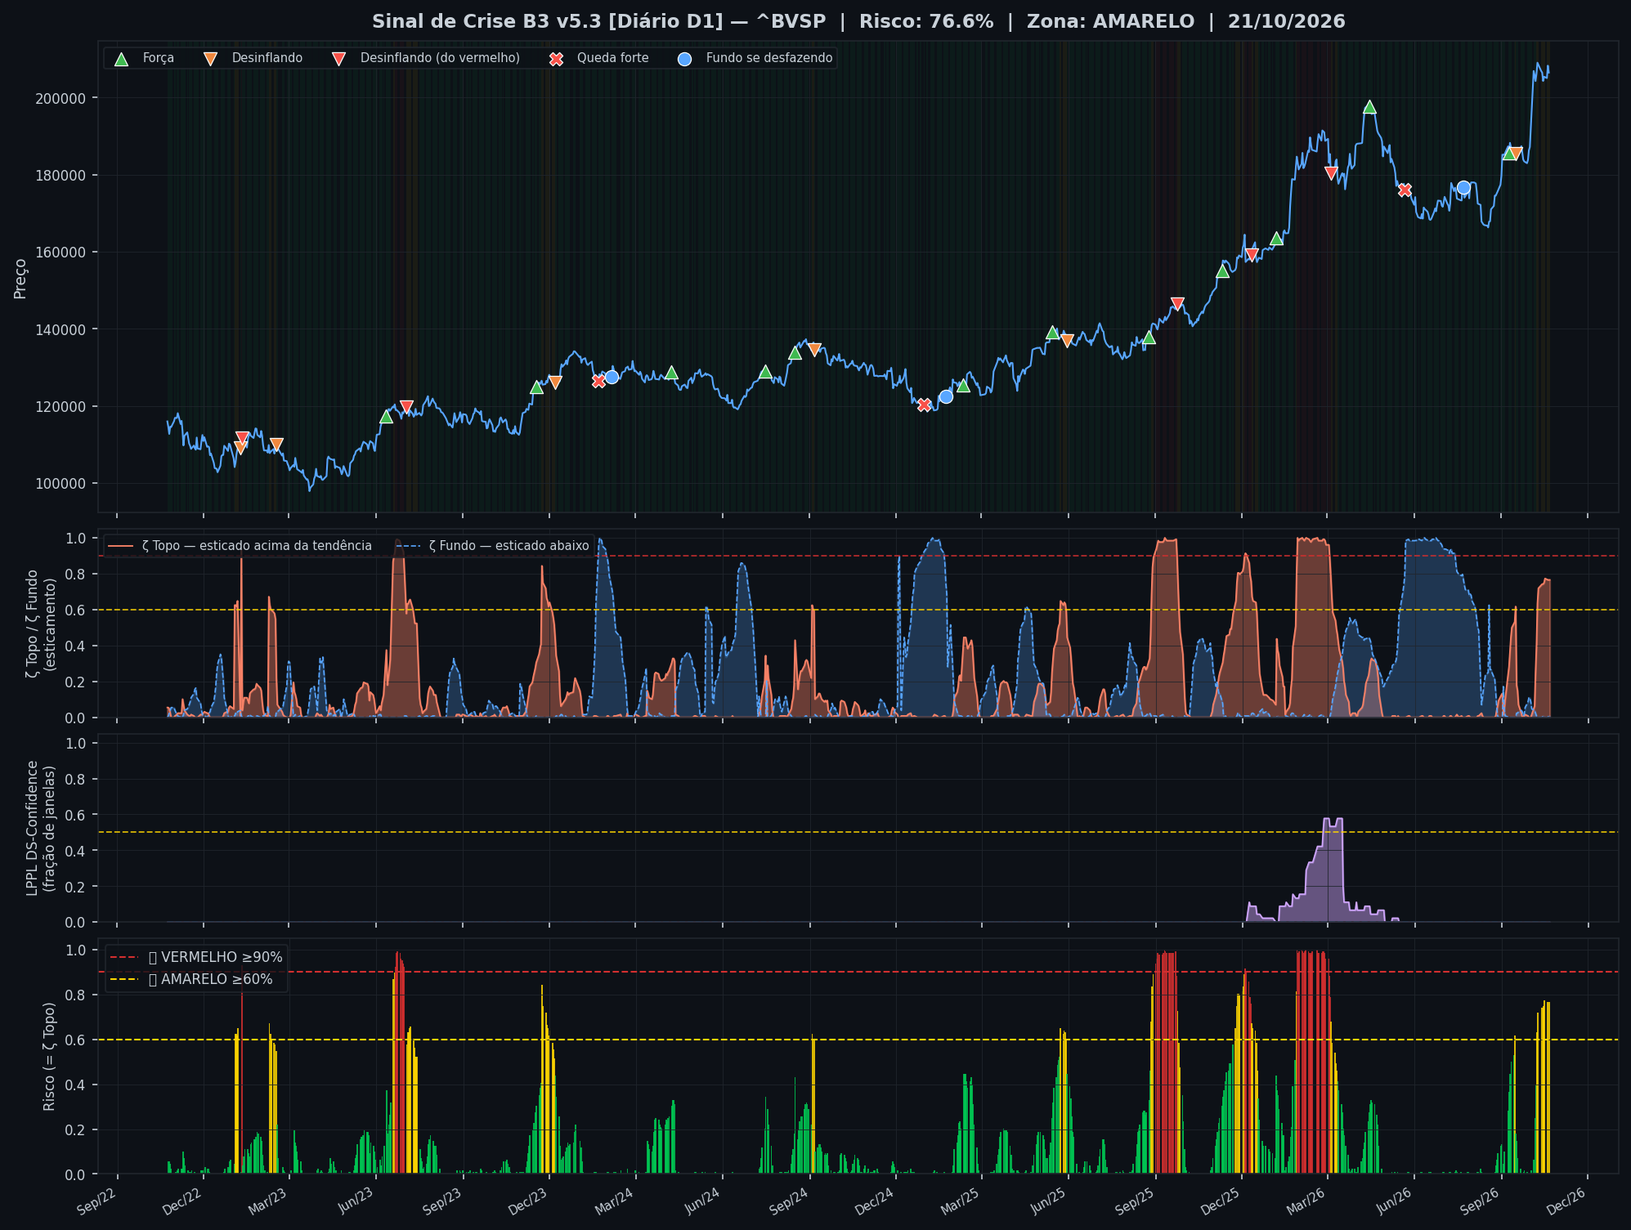
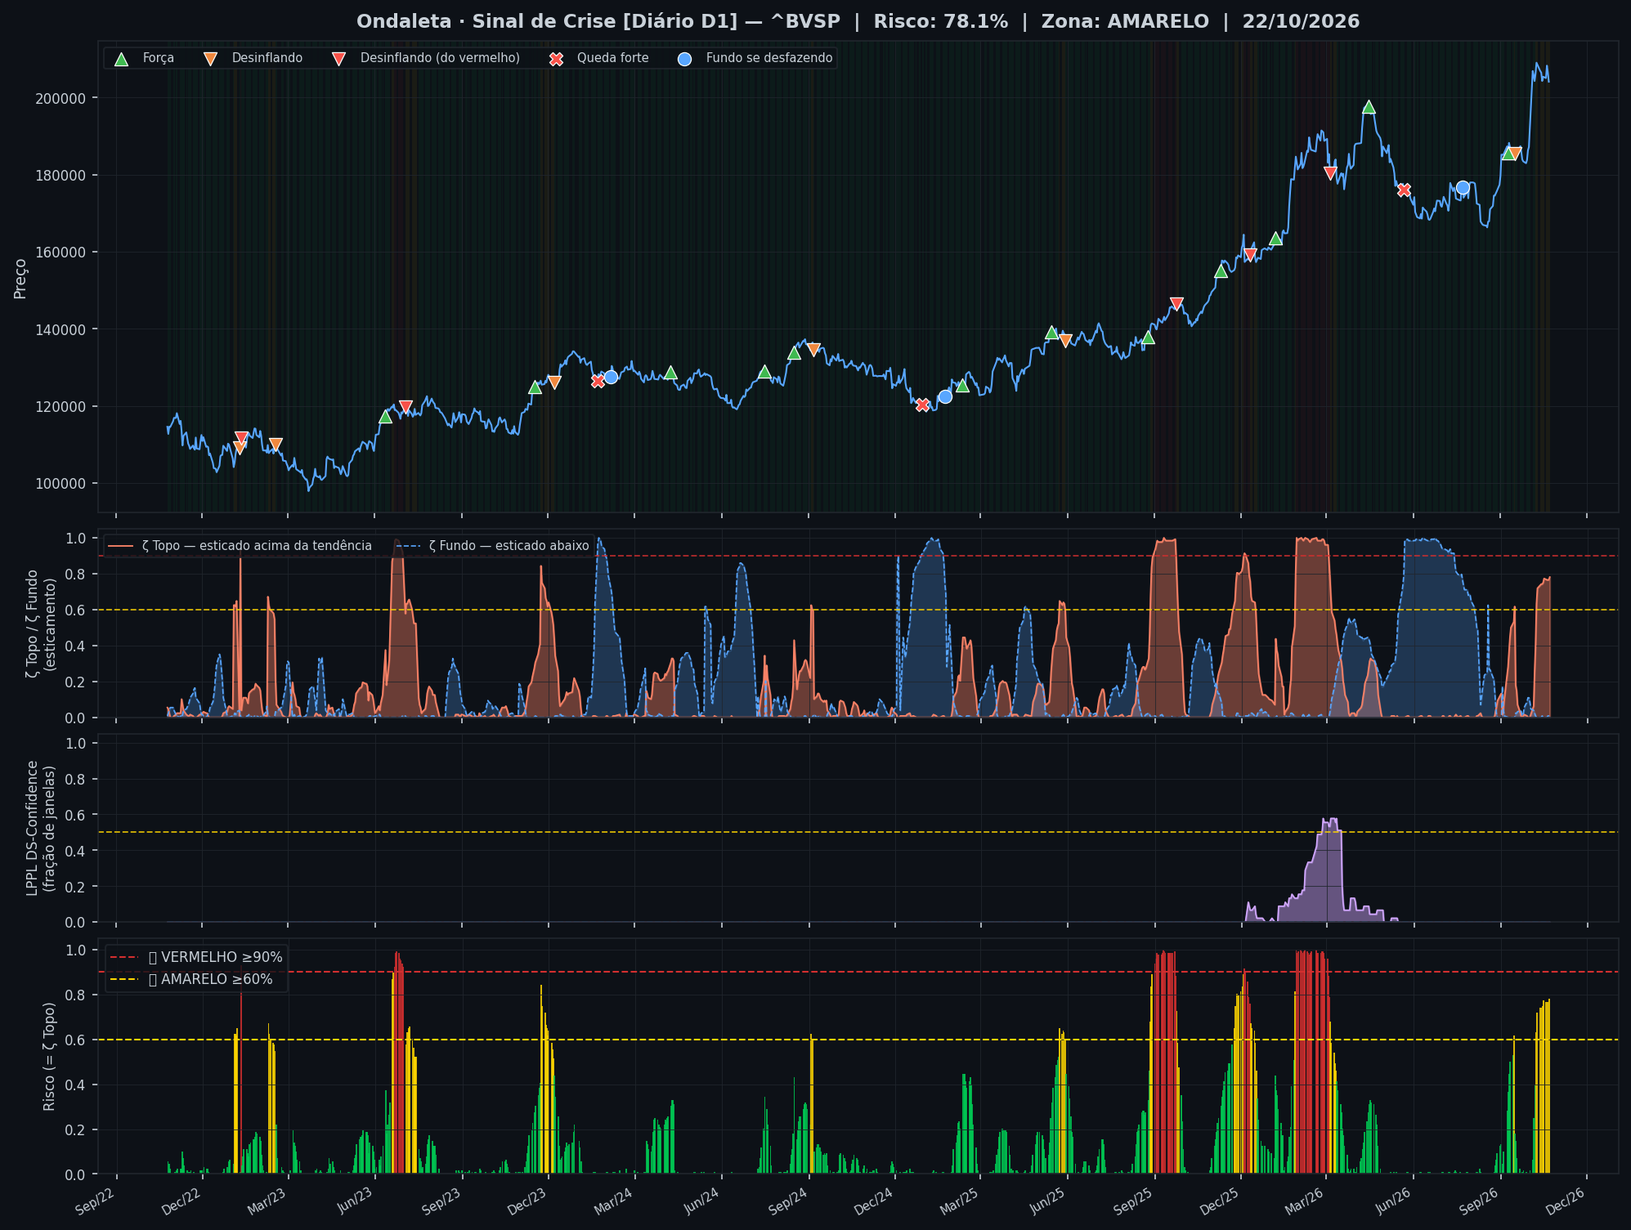
🤖 Auto: Sinal 22/10/2026 19:12

diff --git a/content/diario/2026-10-22.md b/content/diario/2026-10-22.md
@@ -1,0 +1,138 @@
+---
+title: "🟡 Diário 22/10/2026 — AMARELO"
+date: 2026-10-22
+tags: [diario]
+---
+
+> [!warning] Onde o mercado está no fechamento de 22/10: **🟡 Esticado para cima**
+> `Pânico ◀──────────────────●──▶ Euforia`
+>
+> O Ibovespa subiu mais rápido que o normal e está acima da sua faixa habitual.
+>
+> *Leitura educacional baseada em 26 anos de dados. Não é recomendação de investimento.*
+
+> [!note]- 🎯 Gatilhos de entrada: nenhum armado agora
+> Nenhum sinal recente está esperando rompimento.
+>
+> *Como funciona: depois de um sinal de fundo (ou ζ Fundo ≥ 60%), o gatilho de compra é o rompimento da **máxima do candle anterior + 20% do tamanho dele**; depois de um sinal de topo (ou ζ Topo ≥ 60%), o de venda é o rompimento da **mínima − 20%**. Fica armado por até 5 candles, no mesmo tempo gráfico do sinal. [Estudo e regras](metodologia#gatilho-de-entrada) · leitura educacional do método, não recomendação.*
+
+> [!warning] 🔥 Sinais de Topo e Fundo · Mensal, Semanal — sinal forte em formação (confirma no fechamento do candle mensal, semanal)
+> - 🔴 Mensal · TOPO · **[RSI75+MV](tecnico/#mensal)** — RSI≥75 e MACD-V≥130 · 📈 [ver no gráfico Mensal](tecnico/#mensal)
+> - 🔴 Semanal · TOPO · **[FD+CCI](tecnico/#semanal)** — Fechou fora→dentro da BB superior + CCI≥200 · 📈 [ver no gráfico Semanal](tecnico/#semanal)
+>
+> [Ver os sinais](sinais-topo-fundo/)
+
+> [!warning] Sinal de Crise · Diário (22/10): 🟡 **AMARELO** — Risco 78% · ▲ +2 p.p. vs leitura anterior
+> `████████████████░░░░`
+> Atenção — preço esticado acima da tendência.
+
+
+> [!warning] ⚠ Nível alto agora — Sinal de Crise · Diário (22/10)
+> - 🟡 **ζ Topo 78%** — preço esticado acima da tendência (risco de reversão)
+
+> [!note] 🧭 Sinal de Crise · Situação no diário: 🟡 **Preço esticado acima da tendência**
+> 📚 historicamente, a partir daqui o risco de correção ficou acima da média
+>
+> Eventos recentes: 📉 16/09 Esticamento desinflando · 🚀 09/09 Força · 🌱 23/07 Fundo se desfazendo · 🔪 22/05 Queda forte em curso
+>
+> *Leitura educacional baseada em 26 anos de dados, não recomendação. [Como usar](../metodologia#3-como-usar-na-prática).*
+
+| Indicador — Sinal de Crise · Diário (22/10) | Valor |
+|---|---|
+| 🔴 ζ Topo — preço esticado acima da tendência | 🟡 **78%** |
+| 🔵 ζ Fundo — preço esticado abaixo da tendência | 0% |
+| 🫧 LPPL bolha — alta super-exponencial (risco de crash) | 0% |
+| 🫧 LPPL antibolha — queda super-exponencial (risco de repique) | 0% |
+| 📊 Ibovespa | 204.120 pts |
+
+![Gráfico do sinal](../graficos/sinal_diario.png)
+
+## Últimos 30 pregões
+
+| Data | Zona | Evento | Risco | ζ Topo | ζ Fundo | LPPL |
+|---|---|---|---|---|---|---|
+| 2026-10-22 | 🟡 AMARELO |  | 🟡 **78%** | 🟡 **78%** | 0% | 0% |
+| 2026-10-21 | 🟡 AMARELO |  | 🟡 **77%** | 🟡 **77%** | 1% | 0% |
+| 2026-10-20 | 🟡 AMARELO |  | 🟡 **77%** | 🟡 **77%** | 1% | 0% |
+| 2026-10-19 | 🟡 AMARELO |  | 🟡 **77%** | 🟡 **77%** | 0% | 0% |
+| 2026-10-16 | 🟡 AMARELO |  | 🟡 **77%** | 🟡 **77%** | 0% | 0% |
+| 2026-10-15 | 🟡 AMARELO |  | 🟡 **75%** | 🟡 **75%** | 0% | 0% |
+| 2026-10-14 | 🟡 AMARELO |  | 🟡 **74%** | 🟡 **74%** | 1% | 0% |
+| 2026-10-13 | 🟡 AMARELO |  | 🟡 **74%** | 🟡 **74%** | 0% | 0% |
+| 2026-10-09 | 🟡 AMARELO |  | 🟡 **72%** | 🟡 **72%** | 0% | 0% |
+| 2026-10-08 | 🟡 AMARELO |  | 🟡 **63%** | 🟡 **63%** | 0% | 0% |
+| 2026-10-07 | 🟢 VERDE |  | **40%** | 40% | 1% | 0% |
+| 2026-10-06 | 🟢 VERDE |  | **25%** | 25% | 2% | 0% |
+| 2026-10-05 | 🟢 VERDE |  | **6%** | 6% | 4% | 0% |
+| 2026-10-02 | 🟢 VERDE |  | **2%** | 2% | 5% | 0% |
+| 2026-10-01 | 🟢 VERDE |  | **0%** | 0% | 9% | 0% |
+| 2026-09-30 | 🟢 VERDE |  | **0%** | 0% | 11% | 0% |
+| 2026-09-29 | 🟢 VERDE |  | **0%** | 0% | 11% | 0% |
+| 2026-09-28 | 🟢 VERDE |  | **1%** | 1% | 9% | 0% |
+| 2026-09-25 | 🟢 VERDE |  | **2%** | 2% | 5% | 0% |
+| 2026-09-24 | 🟢 VERDE |  | **1%** | 1% | 2% | 0% |
+| 2026-09-23 | 🟢 VERDE |  | **0%** | 0% | 1% | 0% |
+| 2026-09-22 | 🟢 VERDE |  | **0%** | 0% | 3% | 0% |
+| 2026-09-21 | 🟢 VERDE |  | **2%** | 2% | 4% | 0% |
+| 2026-09-18 | 🟢 VERDE |  | **7%** | 7% | 3% | 0% |
+| 2026-09-17 | 🟢 VERDE |  | **15%** | 15% | 2% | 0% |
+| 2026-09-16 | 🟢 VERDE | 📉 | **18%** | 18% | 2% | 0% |
+| 2026-09-15 | 🟡 AMARELO |  | 🟡 **62%** | 🟡 **62%** | 0% | 0% |
+| 2026-09-14 | 🟢 VERDE |  | **53%** | 53% | 0% | 0% |
+| 2026-09-11 | 🟢 VERDE |  | **50%** | 50% | 0% | 0% |
+| 2026-09-10 | 🟢 VERDE |  | **45%** | 45% | 0% | 0% |
+
+<small>Destaques: 🟡 ≥ 60% · 🔴 ≥ 90% (Risco e ζ Topo) · 🔵 ≥ 60% · 🔪 ≥ 90% (ζ Fundo) · 🫧 ≥ 30% · 🫧🔴 ≥ 50% (LPPL)</small>
+
+## Monitor Multi-Ativo
+
+**29% dos ativos em tensão** (6🔴 1🟡) · **2 com ζ Fundo alto** — quanto mais ativos disparam juntos, mais confiável o sinal.
+
+> [!danger] Em destaque no multi-ativo
+> 🔪 **WEG** ζ Fundo 99% · 🔪 **VIBRA** ζ Fundo 99% · 🔴 **B3** ζ Topo 98% · 🔴 **BTGP BANCO** ζ Topo 98% · 🔴 **EQUATORIAL** ζ Topo 98% · 🔴 **LOCALIZA** ζ Topo 98% · 🔴 **REDE D OR** ζ Topo 97% · 🟡 **SABESP** ζ Topo 88% · 🟡 **BRADESCO** ζ Topo 87%
+
+| Zona | Ativo | Setor | ζ Topo | ζ Fundo |
+|---|---|---|---|---|
+| 🟢 | **WEG** | Industrial | 0.8% | 🔪 **99.2%** |
+| 🟢 | **VIBRA** | Energia | 0.0% | 🔪 **99.2%** |
+| 🔴 | **B3** | Financeiro | 🔴 **98.4%** | 0.8% |
+| 🔴 | **BTGP BANCO** | Financeiro | 🔴 **98.4%** | 0.8% |
+| 🔴 | **EQUATORIAL** | Energia | 🔴 **98.4%** | 0.0% |
+| 🔴 | **LOCALIZA** | Aluguel | 🔴 **98.4%** | 0.8% |
+| 🔴 | **REDE D OR** | Saúde | 🔴 **96.9%** | 0.8% |
+| 🟡 | **SABESP** | Saneamento | 🟡 **87.5%** | 0.0% |
+| 🔴 | **BRADESCO** | Financeiro | 🟡 **86.7%** | 0.8% |
+| 🟢 | **AMBEV S/A** | Consumo | 52.3% | 0.0% |
+| 🟢 | **ENEVA** | Energia | 38.3% | 0.8% |
+| 🟢 | **VALE** | Mineração | 0.8% | 35.9% |
+| 🟢 | **ITAUUNIBANCO** | Financeiro | 35.2% | 1.6% |
+| 🟢 | **PETROBRAS** | Petróleo | 33.6% | 0.0% |
+| 🟢 | **PETROBRAS** | Petróleo | 30.5% | 0.0% |
+| 🟢 | **PRIO** | Petróleo | 21.9% | 0.0% |
+| 🟢 | **GERDAU** | Siderurgia | 11.7% | 0.8% |
+| 🟢 | **ITAUSA** | Financeiro | 1.6% | 6.2% |
+| 🟢 | **BRASIL** | Financeiro | 6.2% | 0.8% |
+| 🟢 | **EMBRAER** | Outros | 0.0% | 3.9% |
+| 🟢 | **COPEL** | Energia | 3.9% | 0.0% |
+| 🟢 | **ULTRAPAR** | Outros | 3.1% | 0.0% |
+| 🟢 | **USD/BRL** | Câmbio | 1.6% | 0.0% |
+| 🟢 | **AXIA ENERGIA** | Energia | 0.8% | 0.0% |
+
+<small>Destaques: 🟡 ≥ 60% · 🔴 ≥ 90% (Risco e ζ Topo) · 🔵 ≥ 60% · 🔪 ≥ 90% (ζ Fundo) · 🫧 ≥ 30% · 🫧🔴 ≥ 50% (LPPL)</small>
+
+![Monitor multi-ativo](../graficos/multi_diario.png)
+
+*Página atualizada em 22/10/2026 19:12 BRT (leitura da barra de 2026-10-22 BRT).*
+
+> [!info]- Como interpretar (clique para expandir)
+> - **ζ Topo**: fração dos coeficientes wavelet (Chapéu Mexicano, Caetano & Yoneyama 2009) acima de +0,8σ na faixa mais recente. Na ponta da série isso acontece quando o preço termina **esticado acima da tendência** em muitas escalas — euforia/topo. ζ=0,90 é o limiar de Caetano: quedas que partiram desse padrão foram mais fundas. **É risco de reversão, não data do crash.**
+> - **ζ Fundo**: o espelho — preço esticado abaixo da tendência, possível região de compra.
+> - **LPPL DS-Confidence**: fração de 45 janelas (60–500 pregões) em que o modelo de Sornette produz um ajuste válido. **Bolha** (B<0): alta super-exponencial, risco de crash. **Antibolha** (B>0): queda super-exponencial, risco de repique. Evidência complementar; **não entra na zona**.
+> - **Zonas com histerese**: o sinal só muda de zona ao cruzar o limiar de entrada, e só volta ao cruzar o de saída — evita flip-flop diário.
+
+
+---
+*Ondaleta · as ondas do mercado, explicadas. Sinal de Crise baseado no trabalho do Prof. Marco Antonio Leonel Caetano (IMA Wavelet, [Caetano & Yoneyama, Physica-A 2007](https://doi.org/10.1016/j.physa.2007.03.054)) e do Prof. Didier Sornette (LPPL, ETH-Zurich); Sinais de Topo e Fundo baseados no trabalho de Oliver Velez, J. Welles Wilder, Donald Lambert, John Bollinger e Alex Spiroglou. Adaptado, testado no Ibovespa e mantido por Jarbas Daniel da Costa. Os autores citados não participam do produto. · [Metodologia](metodologia) · [Histórico](historico)*
+
+> [!quote]- Aviso
+> Conteúdo educacional. Não constitui recomendação de investimento.

diff --git a/content/index.md b/content/index.md
@@ -6,13 +6,12 @@ tags: [home]
 
 **As ondas do mercado, explicadas.** Leitura do Ibovespa com estatística de 26 anos, baseada no trabalho de pesquisadores e traders reconhecidos e adaptada por Jarbas Daniel da Costa.
 
-*Última atualização: 22/10/2026 18:38 BRT · Intraday 15min*
+*Última atualização: 22/10/2026 19:12 BRT · Diário D1*
 
-> [!success] Onde o mercado está agora (22/10 17:15, candles de 15 min): **🟢 Calmo**
-> `Pânico ◀──────●──────────────▶ Euforia`
+> [!warning] Onde o mercado está no fechamento de 22/10: **🟡 Esticado para cima**
+> `Pânico ◀──────────────────●──▶ Euforia`
 >
-> O Ibovespa está dentro da sua faixa normal, sem excesso para cima nem para baixo.
-> No gráfico diário: 🟡 Preço esticado acima da tendência.
+> O Ibovespa subiu mais rápido que o normal e está acima da sua faixa habitual.
 >
 > *Leitura educacional baseada em 26 anos de dados. Não é recomendação de investimento.*
 
@@ -21,15 +20,19 @@ tags: [home]
 >
 > *Como funciona: depois de um sinal de fundo (ou ζ Fundo ≥ 60%), o gatilho de compra é o rompimento da **máxima do candle anterior + 20% do tamanho dele**; depois de um sinal de topo (ou ζ Topo ≥ 60%), o de venda é o rompimento da **mínima − 20%**. Fica armado por até 5 candles, no mesmo tempo gráfico do sinal. [Estudo e regras](metodologia#gatilho-de-entrada) · leitura educacional do método, não recomendação.*
 
-> [!warning] 🔥 Sinais de Topo e Fundo · Mensal — sinal forte em formação (confirma no fechamento do candle mensal)
+> [!warning] 🔥 Sinais de Topo e Fundo · Mensal, Semanal — sinal forte em formação (confirma no fechamento do candle mensal, semanal)
 > - 🔴 Mensal · TOPO · **[RSI75+MV](tecnico/#mensal)** — RSI≥75 e MACD-V≥130 · 📈 [ver no gráfico Mensal](tecnico/#mensal)
+> - 🔴 Semanal · TOPO · **[FD+CCI](tecnico/#semanal)** — Fechou fora→dentro da BB superior + CCI≥200 · 📈 [ver no gráfico Semanal](tecnico/#semanal)
 >
 > [Ver os sinais](sinais-topo-fundo/)
 
+> [!warning] ⚠ Nível alto agora — Sinal de Crise · Diário (22/10)
+> - 🟡 **ζ Topo 78%** — preço esticado acima da tendência (risco de reversão)
 
-
-> [!note] 🧭 Sinal de Crise · Viés do diário (21/10): 🟡 **Preço esticado acima da tendência**
+> [!note] 🧭 Sinal de Crise · Situação no diário: 🟡 **Preço esticado acima da tendência**
 > 📚 historicamente, a partir daqui o risco de correção ficou acima da média
+>
+> Eventos recentes: 📉 16/09 Esticamento desinflando · 🚀 09/09 Força · 🌱 23/07 Fundo se desfazendo · 🔪 22/05 Queda forte em curso
 >
 > *Leitura educacional baseada em 26 anos de dados, não recomendação. [Como usar](metodologia#3-como-usar-na-prática).*
 
@@ -37,21 +40,21 @@ tags: [home]
 
 A Ondaleta tem três módulos: o **Sinal de Crise** (IMA + LPPL), os **Sinais de Topo e Fundo** e o **Gráfico Técnico**. Clique nos blocos abaixo para abrir os números.
 
-> [!success] Sinal de Crise · Intraday 15 min (22/10 17:15): 🟢 **VERDE** — Risco 0% · ▼ -5 p.p. vs leitura anterior
-> `░░░░░░░░░░░░░░░░░░░░`
-> Preço na faixa normal em torno da tendência.
+> [!warning] Sinal de Crise · Diário (22/10): 🟡 **AMARELO** — Risco 78% · ▲ +2 p.p. vs leitura anterior
+> `████████████████░░░░`
+> Atenção — preço esticado acima da tendência.
 
 
 > [!info]- 📊 Indicadores do Sinal de Crise
-> | Indicador — Sinal de Crise · Intraday 15 min (22/10 17:15) | Valor |
+> | Indicador — Sinal de Crise · Diário (22/10) | Valor |
 > |---|---|
-> | 🔴 ζ Topo — preço esticado acima da tendência | **0%** |
-> | 🔵 ζ Fundo — preço esticado abaixo da tendência | 45% |
+> | 🔴 ζ Topo — preço esticado acima da tendência | 🟡 **78%** |
+> | 🔵 ζ Fundo — preço esticado abaixo da tendência | 0% |
 > | 🫧 LPPL bolha — alta super-exponencial (risco de crash) | 0% |
 > | 🫧 LPPL antibolha — queda super-exponencial (risco de repique) | 0% |
 > | 📊 Ibovespa | 204.120 pts |
 
-**Multi-ativo:** 8% em tensão (1🔴 1🟡 de 24 ativos)
+**Multi-ativo:** 29% em tensão (6🔴 1🟡 de 24 ativos)
 
 
 > [!tip]- O que 26 anos de dados mostram
@@ -60,7 +63,13 @@ A Ondaleta tem três módulos: o **Sinal de Crise** (IMA + LPPL), os **Sinais de
 > [!info]- 📅 Últimos 7 pregões
 > | Data | Zona | Risco | ζ Topo | ζ Fundo | LPPL |
 > |---|---|---|---|---|---|
-> | [22 Oct 2026](intraday/2026-10-22) | 🟢 VERDE | **0%** | 0% | 45% | 0% |
+> | [22 Oct 2026](diario/2026-10-22) | 🟡 AMARELO | 🟡 **78%** | 🟡 **78%** | 0% | 0% |
+> | [21 Oct 2026](diario/2026-10-21) | 🟡 AMARELO | 🟡 **77%** | 🟡 **77%** | 1% | 0% |
+> | [20 Oct 2026](diario/2026-10-20) | 🟡 AMARELO | 🟡 **77%** | 🟡 **77%** | 1% | 0% |
+> | [19 Oct 2026](diario/2026-10-19) | 🟡 AMARELO | 🟡 **77%** | 🟡 **77%** | 0% | 0% |
+> | [16 Oct 2026](diario/2026-10-16) | 🟡 AMARELO | 🟡 **77%** | 🟡 **77%** | 0% | 0% |
+> | [15 Oct 2026](diario/2026-10-15) | 🟡 AMARELO | 🟡 **75%** | 🟡 **75%** | 0% | 0% |
+> | [14 Oct 2026](diario/2026-10-14) | 🟡 AMARELO | 🟡 **74%** | 🟡 **74%** | 1% | 0% |
 >
 > <small>Destaques: 🟡 ≥ 60% · 🔴 ≥ 90% (Risco e ζ Topo) · 🔵 ≥ 60% · 🔪 ≥ 90% (ζ Fundo) · 🫧 ≥ 30% · 🫧🔴 ≥ 50% (LPPL)</small>
 

diff --git a/content/sinais-topo-fundo/tutorial.md b/content/sinais-topo-fundo/tutorial.md
@@ -136,3 +136,34 @@ O indicador **não repinta**: só avalia candles fechados.
 
 > [!quote]- Aviso
 > Estudo estatístico. Não constitui recomendação de investimento.
+
+<!-- v8-gatilho -->
+## Gatilho de entrada
+
+Depois de um **setup**, o método espera o preço confirmar a virada antes de entrar:
+
+- **Setups de compra:** ζ Fundo ≥ 60% (diário e 15 min) ou um Sinal de Fundo forte/moderado (mensal, semanal, diário, H4).
+- **Setups de venda:** ζ Topo ≥ 60% ou um Sinal de Topo forte/moderado.
+- **Gatilho de compra:** a máxima do candle atual passa da **máxima do candle anterior + 20% do tamanho dele** (máxima − mínima).
+- **Gatilho de venda:** a mínima do candle atual fura a **mínima do candle anterior − 20% do tamanho dele**.
+- **Rolante, até 5 candles:** se não romper, a referência passa para o candle seguinte; 5 candles sem rompimento, o gatilho desarma. ζ alto por vários candles seguidos conta como um setup só.
+- **Mesmo tempo gráfico:** sinal semanal espera o rompimento no candle semanal, ζ diário no diário, ζ de 15 min no de 15 min. Durante o pregão, o candle em formação é montado com as barras de 15 min do MT5, e o aviso sai no Telegram assim que o preço rompe.
+
+**Estudo (22/10/2026, Ibovespa 2000–2026; H4 2023–2026).** Operação simulada com stop no extremo desde o setup e alvo de 2R, sem custos. R = resultado médio por operação em múltiplos do risco.
+
+| Tempo | Lado | Com gatilho | Sem gatilho | Gatilho sem setup | Nota |
+|---|---|---|---|---|---|
+| Semanal | compra | **+0,65R** (34) | +0,40R | +0,18R | ✅ aprovado |
+| Semanal | venda | **+0,21R** (53) | 0,00R | −0,20R | ✅ aprovado |
+| H4 | compra | **+0,37R** (34) | −0,14R | +0,15R | ✅ aprovado |
+| Diário | compra (sinal forte) | **+0,22R** (70) | — | +0,09R | ✅ aprovado |
+| Diário | compra (ζ ≥ 60%) | **+0,12R** (159) | +0,03R | +0,09R | ✅ aprovado |
+| Diário | compra (sinal moderado) | +0,05R (188) | — | +0,09R | ➖ neutro |
+| Diário | venda (ζ ≥ 60%) | −0,12R (170) | −0,17R | −0,09R | ➖ fraco |
+| Diário | venda (sinais) | −0,15R (116) | −0,06R | −0,09R | ⚠ sem vantagem |
+| H4 | venda | −0,22R (34) | 0,00R | 0,00R | ⚠ sem vantagem |
+| Mensal | compra | +1,01R (5) | +1,59R | +0,36R | ⚠ sem vantagem |
+| Mensal | venda | −0,47R (20) | −0,04R | −0,45R | ⚠ sem vantagem |
+| 15 min | ζ ≥ 60% | — | — | — | ❔ não testado |
+
+*O gatilho custa preço (a entrada sai de 0,3% a 8% pior que o fechamento do setup, conforme o tempo gráfico) em troca da confirmação. Ele compensou onde aparece ✅. O Ibovespa sobe no longo prazo, então compras tendem a ir melhor que vendas. Entre parênteses, o número de operações.*

diff --git a/content/tecnico/index.md b/content/tecnico/index.md
@@ -66,6 +66,7 @@ Ibovespa com **MME(9)**, **MMA(20)**, **MMA(50)**, **MMA(200)** e **Bollinger(20
 
 | Candle | Tipo | Sinal | Força | Acerto histórico |
 |---|---|---|---|---|
+| 23/10/2026 (em formação) | 🔴 Topo | **FD+CCI** — Fechou fora→dentro da BB superior + CCI≥200 | 🔥 **forte** | 68% |
 | 10/04/2026 | 🔴 Topo | **RSI75+MV** — RSI≥75 e MACD-V≥130 | moderado | 56% |
 | 06/03/2026 | 🔴 Topo | **MV-** — MACD-V vira verde sem brilho acima do limiar | moderado | 46% |
 | 23/01/2026 | 🔴 Topo | **RSI75+MV** — RSI≥75 e MACD-V≥130 | moderado | 56% |
@@ -73,7 +74,6 @@ Ibovespa com **MME(9)**, **MMA(20)**, **MMA(50)**, **MMA(200)** e **Bollinger(20
 | 05/12/2025 | 🔴 Topo | **MV-** — MACD-V vira verde sem brilho acima do limiar | moderado | 46% |
 | 21/11/2025 | 🔴 Topo | **FD+CCI** — Fechou fora→dentro da BB superior + CCI≥200 | 🔥 **forte** | 68% |
 | 21/11/2025 | 🔴 Topo | **S180+BB** — Bear 180 depois de tocar a BB superior | moderado | 44% |
-| 21/11/2025 | 🔴 Topo | **S180** — Bear 180 | moderado | 38% |
 
 **Gatilho de entrada** (linha tracejada com ▲/▼ na direita = armado · ★ = disparou) — [como funciona](metodologia#gatilho-de-entrada)
 
@@ -124,4 +124,4 @@ Ibovespa com **MME(9)**, **MMA(20)**, **MMA(50)**, **MMA(200)** e **Bollinger(20
 
 <small>Direção = valor de hoje comparado com o do candle anterior (no semanal e no mensal, com o candle em formação). MACD-V: 🟩 verde subindo · 🟢 verde sem brilho · 🔴 vermelho sem brilho · 🟥 vermelho caindo. CCI: aqua subindo · magenta caindo · azul ≥ +200 · vermelho ≤ −200 · linha amarela = MME9 do CCI.</small>
 
-*Atualizado em 22/10/2026 18:37 BRT. Dados: Yahoo (^BVSP); semanal e mensal montados do diário.*
+*Atualizado em 22/10/2026 19:12 BRT. Dados: Yahoo (^BVSP); semanal e mensal montados do diário.*

diff --git a/content/sinais-topo-fundo/index.md b/content/sinais-topo-fundo/index.md
@@ -9,11 +9,12 @@ Candles de Oliver Velez + RSI, CCI, MACD-V e Bollinger — só os sinais que tiv
 
 📘 [Tutorial — como ler e usar](sinais-topo-fundo/tutorial) · 📋 [Todos os sinais (fortes e moderados)](sinais-topo-fundo/todos-os-sinais)
 
-> [!note] Nenhum sinal no fechamento de 21/10/2026
+> [!note] Nenhum sinal no fechamento de 22/10/2026
 > Os blocos 🔥 aparecem aqui (e na página inicial) no dia em que surge um sinal **forte**.
 
 > [!warning] 🔥 Sinal FORTE em formação (ainda pode sumir até o candle fechar)
 > - Mensal · TOPO · **RSI75+MV** — RSI≥75 e MACD-V≥130 (62%, 2,7× o acaso)
+> - Semanal · TOPO · **FD+CCI** — Fechou fora→dentro da BB superior + CCI≥200 (68%, 2,6× o acaso)
 > 
 > *Semanal confirma na sexta; mensal no último pregão do mês.*
 
@@ -45,7 +46,7 @@ Os moderados ficam em [Todos os sinais](sinais-topo-fundo/todos-os-sinais).
 | Diário | **BT+RSI** (73%), **BT+CCI** (57%), **FD+RSI** (71%) | — |
 | H4 | — | — |
 
-*Atualizado em 22/10/2026 17:13 BRT (último pregão fechado: 21/10/2026). Dados: Yahoo (^BVSP); semanal e mensal reamostrados do diário; H4 do 60 min.*
+*Atualizado em 22/10/2026 19:11 BRT (último pregão fechado: 22/10/2026). Dados: Yahoo (^BVSP); semanal e mensal reamostrados do diário; H4 do 60 min.*
 
 > [!quote]- Aviso
 > Estudo estatístico. Não constitui recomendação de investimento.

diff --git a/content/sinais-topo-fundo/todos-os-sinais.md b/content/sinais-topo-fundo/todos-os-sinais.md
@@ -84,4 +84,4 @@ Histórico de cada tempo gráfico, do mais recente para o mais antigo. Linhas co
 | 12/08/2026 10h | 🟢 FUNDO | **[FD+RSI](sinais-topo-fundo/todos-os-sinais#h4)** — Fechou fora→dentro da BB inferior + RSI≤30 | moderado | 50% | 2,5× |
 | 10/08/2026 10h | 🟢 FUNDO | **[BT+BB](sinais-topo-fundo/todos-os-sinais#h4)** — Bottom tail tocando a BB inferior | moderado | 53% | 3,1× |
 
-*Atualizado em 22/10/2026 17:13 BRT.*
+*Atualizado em 22/10/2026 19:11 BRT.*

diff --git a/content/historico.md b/content/historico.md
@@ -7,6 +7,7 @@ tags: [historico]
 
 | Data | Modo | Zona | Risco | IMA | LPPL |
 |---|---|---|---|---|---|
+| 2026-10-22 | diario | 🟡 AMARELO | 🟡 **78%** | 🟡 **78%** | 0% |
 | 2026-10-22 17:15 | intraday | 🟢 VERDE | 0% | 0% | 0% |
 | 2026-10-22 17:00 | intraday | 🟢 VERDE | 5% | 5% | 0% |
 | 2026-10-22 16:45 | intraday | 🟢 VERDE | 2% | 2% | 0% |
